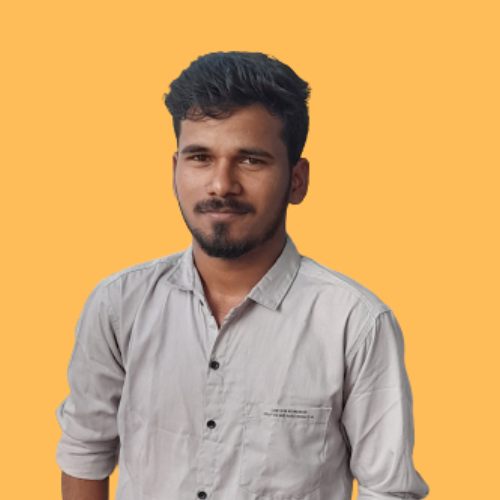
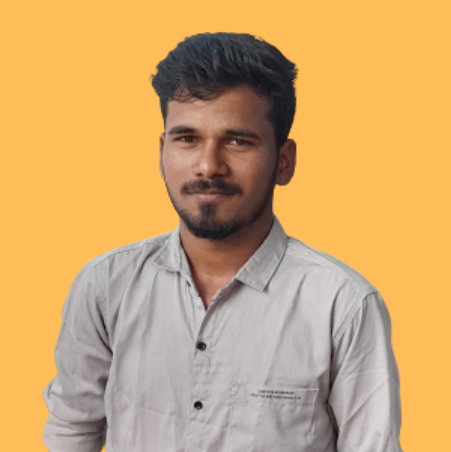
size

diff --git a/frontend/src/pages/Team.tsx b/frontend/src/pages/Team.tsx
@@ -46,7 +46,7 @@ export const Team = () => {
       bio: "Professional web developer with expertise in creating modern, responsive websites and applications.",
       linkedin: "#",
       email: "padak.service@gmail.com",
-      imageUrl: "https://github.com/Sweety-Vigneshg/Padak-Marketing-Website/blob/main/frontend/src/assets/VigneshG.jpg?raw=true"
+      imageUrl: "https://github.com/Sweety-Vigneshg/Padak-Marketing-Website/blob/main/frontend/src/assets/Vignesh_G.png?raw=true"
     }
   ];
 
